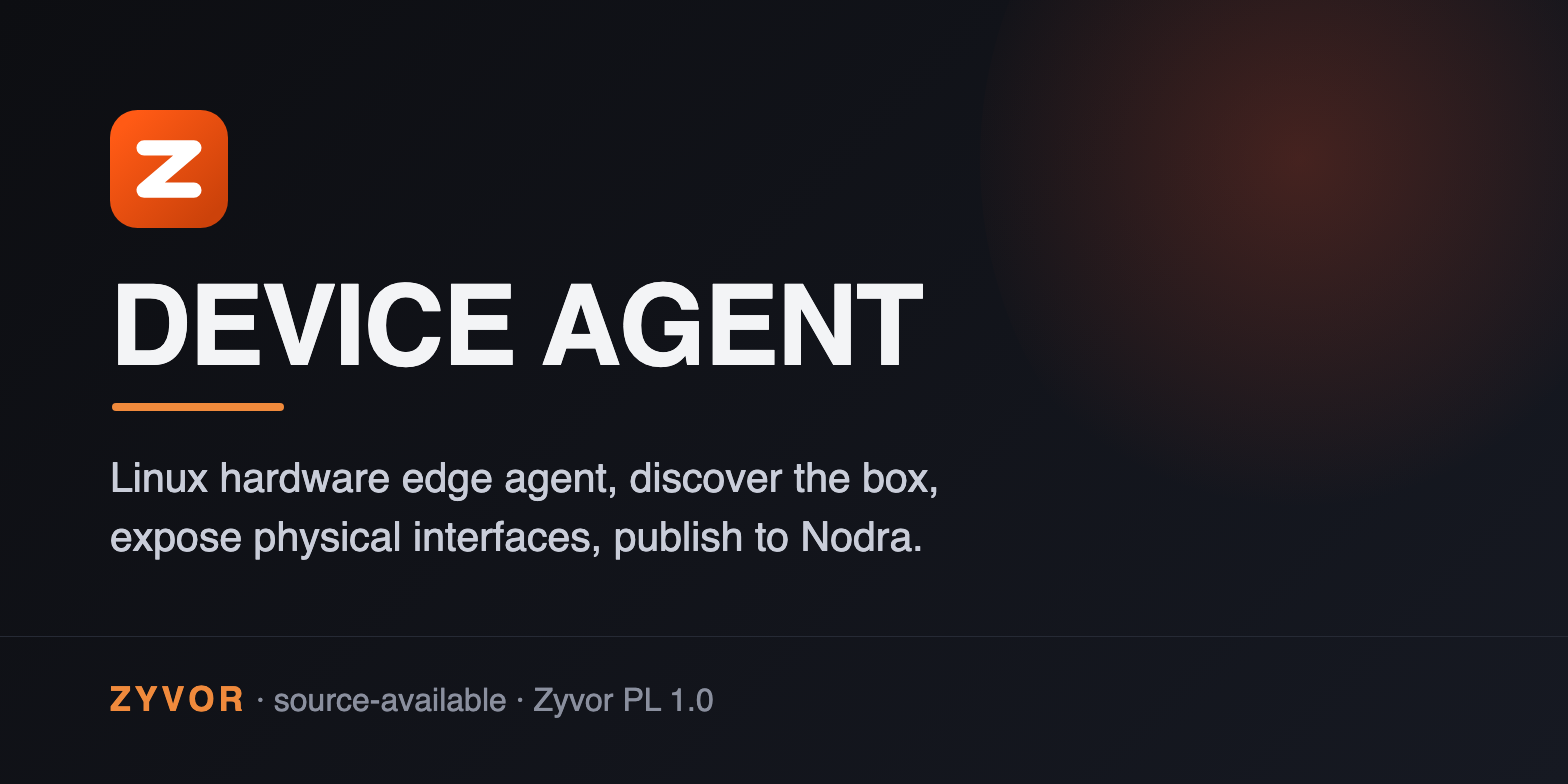
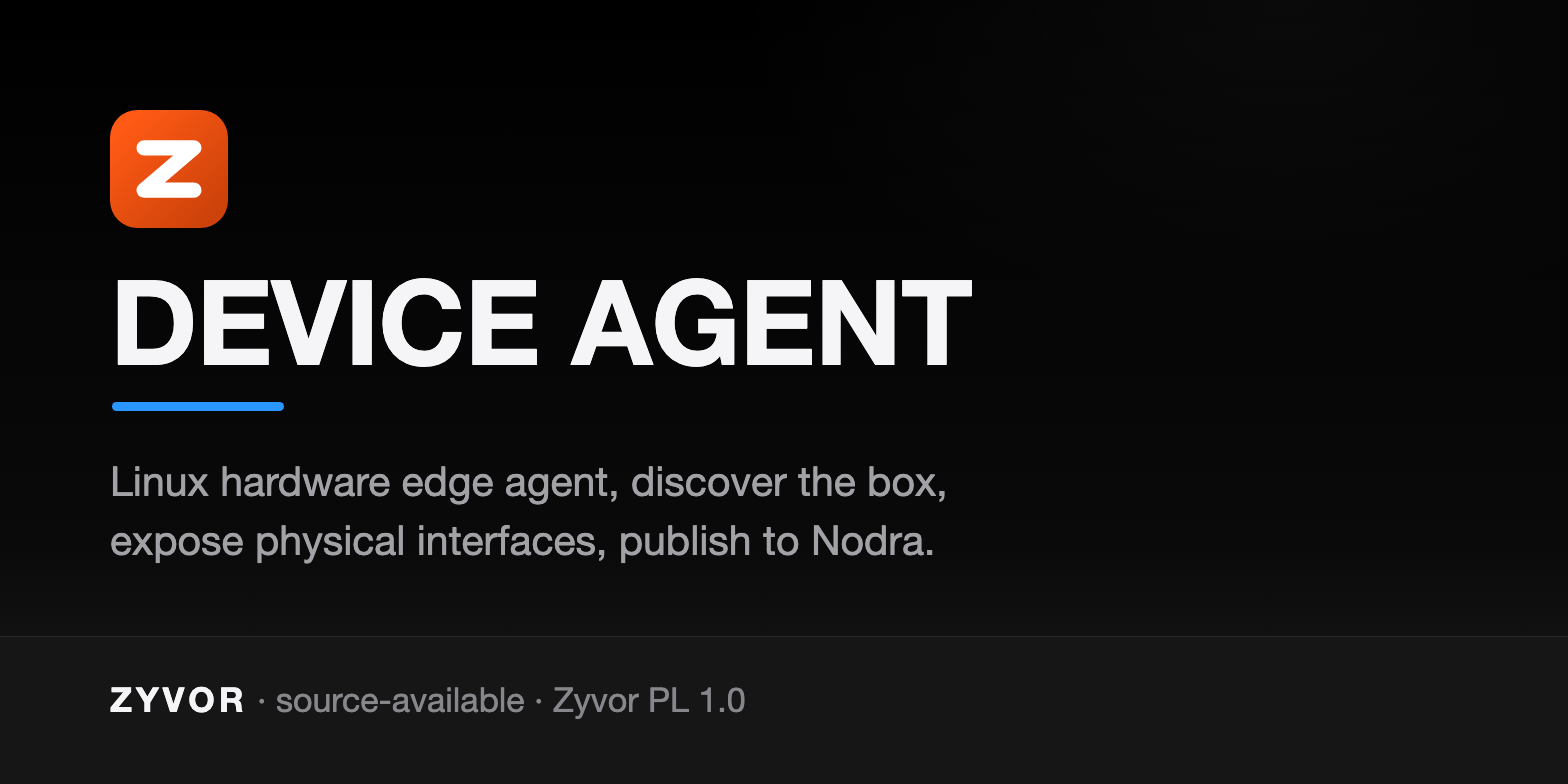
docs: remove community tier, apple-dark social cards

diff --git a/docs/social/device-agent-social-card.html b/docs/social/device-agent-social-card.html
@@ -8,12 +8,12 @@
   Build:  ./docs/social/build-social-card.sh   ->  device-agent-social-card.jpg
 -->
 <style>
-  :root { --ink:#0d0d0c; --soft:#5a544c; --signal:#ff5a15; --deep:#cc420a; --warm:#fbf7f2;
-    --blue:#2b5fd9; --green:#1f7a4d;
+  :root { --ink:#f5f5f7; --soft:#86868b; --signal:#2997ff; --btn:#0071e3; --deep:#2997ff; --warm:#000;
+    --blue:#5e5ce6; --green:#248a3d;
     --sans:'Helvetica Neue',Helvetica,Arial,sans-serif; --mono:'SF Mono',Menlo,Consolas,monospace; }
   * { box-sizing:border-box; }
   html,body { margin:0; padding:0; }
-  body { width:1600px; height:900px; overflow:hidden; background:var(--warm); color:var(--ink); font-family:var(--sans); position:relative; }
+  body { width:1600px; height:900px; overflow:hidden; background:radial-gradient(900px 520px at 78% 0%,rgba(255,255,255,.04),transparent 62%),#000; color:var(--ink); font-family:var(--sans); position:relative; }
   .bar { position:absolute; left:0; top:0; bottom:0; width:14px; background:var(--signal); }
   .wrap { position:absolute; left:72px; right:64px; top:48px; bottom:40px; display:flex; flex-direction:column; }
 
@@ -24,10 +24,10 @@
 
   h1 { margin:26px 0 0; font-size:64px; line-height:1.06; letter-spacing:-.025em; font-weight:700; max-width:1440px; }
   h1 em { font-style:normal; color:var(--signal); }
-  .sub { margin:16px 0 0; font-size:27px; line-height:1.36; color:#26231f; max-width:1320px; }
+  .sub { margin:16px 0 0; font-size:27px; line-height:1.36; color:#a1a1a6; max-width:1320px; }
 
   .flow { margin-top:34px; display:grid; grid-template-columns:repeat(5,1fr); gap:34px; }
-  .step { position:relative; background:#fff; border:2.5px solid var(--c); border-radius:16px; padding:18px 20px 18px 24px; min-height:222px; }
+  .step { position:relative; background:#1d1d1f; border:2.5px solid var(--c); border-radius:16px; padding:18px 20px 18px 24px; min-height:222px; }
   .step::before { content:""; position:absolute; left:0; top:0; bottom:0; width:9px; background:var(--c); border-radius:13px 0 0 13px; }
   .step:not(:last-child)::after { content:""; position:absolute; right:-31px; top:50%; width:0; height:0; margin-top:-11px;
     border-left:16px solid var(--soft); border-top:11px solid transparent; border-bottom:11px solid transparent; }
@@ -35,17 +35,17 @@
   .n { float:right; width:34px; height:34px; border-radius:50%; background:var(--c); color:#fff; font-weight:700; font-size:19px; line-height:34px; text-align:center; }
   .step h3 { margin:14px 0 8px; font-size:27px; line-height:1.14; letter-spacing:-.01em; }
   .step p { margin:0; font-size:20.5px; line-height:1.34; color:var(--soft); }
-  .k { --c:var(--signal); } .a { --c:var(--ink); } .c { --c:var(--blue); } .o { --c:var(--green); } .o2 { --c:var(--deep); }
+  .k { --c:var(--btn); } .a { --c:#86868b; } .c { --c:var(--blue); } .o { --c:var(--green); } .o2 { --c:var(--deep); }
 
-  .attr { margin-top:22px; display:flex; align-items:center; gap:16px; background:var(--ink); color:#f3ede4; border-radius:12px; padding:13px 22px; font-family:var(--mono); font-size:22px; white-space:nowrap; }
+  .attr { margin-top:22px; display:flex; align-items:center; gap:16px; background:#1d1d1f; border:1px solid rgba(255,255,255,.08); color:#f5f5f7; border-radius:12px; padding:13px 22px; font-family:var(--mono); font-size:22px; white-space:nowrap; }
   .attr .tag { color:var(--signal); font-weight:700; letter-spacing:.1em; font-size:16px; }
-  .attr .why { margin-left:auto; color:#a39a8d; font-size:15px; letter-spacing:.06em; text-transform:uppercase; }
+  .attr .why { margin-left:auto; color:#86868b; font-size:15px; letter-spacing:.06em; text-transform:uppercase; }
 
   .chips { margin-top:auto; padding-top:22px; display:flex; flex-wrap:wrap; gap:10px; }
-  .chip { font-size:20px; font-weight:700; padding:5px 14px; border-radius:20px; background:var(--signal); color:#fff; border:2px solid var(--signal); }
-  .chip.g { background:#fff; color:var(--deep); border:2px solid var(--signal); }
+  .chip { font-size:20px; font-weight:700; padding:5px 14px; border-radius:20px; background:var(--btn); color:#fff; border:2px solid var(--btn); }
+  .chip.g { background:#1d1d1f; color:var(--deep); border:2px solid var(--signal); }
 
-  .foot { margin-top:18px; padding-top:14px; border-top:3px solid var(--ink); display:flex; align-items:center; font-family:var(--mono); font-size:22px; color:var(--soft); }
+  .foot { margin-top:18px; padding-top:14px; border-top:1px solid rgba(255,255,255,.12); display:flex; align-items:center; font-family:var(--mono); font-size:22px; color:var(--soft); }
   .foot b { color:var(--ink); }
   .foot .r { margin-left:auto; }
 </style>

diff --git a/docs/social/device-agent-share-card.html b/docs/social/device-agent-share-card.html
@@ -8,11 +8,11 @@
   Build:  ./docs/social/build-social-card.sh
 -->
 <style>
-  :root { --ink:#0d0d0c; --soft:#5a544c; --signal:#ff5a15; --deep:#cc420a; --warm:#fbf7f2;
+  :root { --ink:#f5f5f7; --soft:#86868b; --signal:#2997ff; --btn:#0071e3; --deep:#2997ff; --warm:#000;
     --sans:'Helvetica Neue',Helvetica,Arial,sans-serif; --mono:'SF Mono',Menlo,Consolas,monospace; }
   * { box-sizing:border-box; }
   html,body { margin:0; padding:0; }
-  body { width:1200px; height:630px; overflow:hidden; background:var(--warm); color:var(--ink); font-family:var(--sans); position:relative; }
+  body { width:1200px; height:630px; overflow:hidden; background:radial-gradient(900px 520px at 78% 0%,rgba(255,255,255,.04),transparent 62%),#000; color:var(--ink); font-family:var(--sans); position:relative; }
   .bar { position:absolute; left:0; top:0; bottom:0; width:12px; background:var(--signal); }
   .wrap { position:absolute; left:56px; right:48px; top:40px; bottom:36px; display:flex; flex-direction:column; }
 
@@ -23,13 +23,13 @@
 
   h1 { margin:36px 0 0; font-size:52px; line-height:1.08; letter-spacing:-.025em; font-weight:700; max-width:1080px; }
   h1 em { font-style:normal; color:var(--signal); }
-  .sub { margin:18px 0 0; font-size:24px; line-height:1.4; color:#26231f; max-width:980px; }
+  .sub { margin:18px 0 0; font-size:24px; line-height:1.4; color:#a1a1a6; max-width:980px; }
 
   .chips { margin-top:auto; display:flex; flex-wrap:wrap; gap:10px; padding-bottom:18px; }
-  .chip { font-size:18px; font-weight:700; padding:6px 14px; border-radius:20px; background:var(--signal); color:#fff; border:2px solid var(--signal); }
-  .chip.g { background:#fff; color:var(--deep); border:2px solid var(--signal); }
+  .chip { font-size:18px; font-weight:700; padding:6px 14px; border-radius:20px; background:var(--btn); color:#fff; border:2px solid var(--btn); }
+  .chip.g { background:#1d1d1f; color:var(--deep); border:2px solid var(--signal); }
 
-  .foot { padding-top:14px; border-top:3px solid var(--ink); display:flex; align-items:center; font-family:var(--mono); font-size:20px; color:var(--soft); }
+  .foot { padding-top:14px; border-top:1px solid rgba(255,255,255,.12); display:flex; align-items:center; font-family:var(--mono); font-size:20px; color:var(--soft); }
   .foot b { color:var(--ink); }
   .foot .r { margin-left:auto; }
 </style>

diff --git a/docs/social/device-agent-preview.html b/docs/social/device-agent-preview.html
@@ -1,0 +1,21 @@
+<!doctype html>
+<html lang="en"><head><meta charset="utf-8"><title>DEVICE AGENT social preview</title>
+<style>
+* { box-sizing:border-box; }
+html,body { margin:0; padding:0; }
+body { width:1568px; height:784px; overflow:hidden; position:relative; color:#f5f5f7;
+  font-family:'Helvetica Neue',Helvetica,Arial,sans-serif;
+  background:radial-gradient(900px 520px at 82% 0%,rgba(255,255,255,.04),transparent 62%),linear-gradient(180deg,#000 0%,#0a0a0b 70%,#1d1d1f 100%); }
+.mark { position:absolute; left:110px; top:110px; width:118px; height:118px; }
+h1 { position:absolute; left:110px; top:262px; margin:0; font-size:118px; line-height:1; font-weight:700; letter-spacing:-.01em; }
+.rule { position:absolute; left:112px; top:402px; width:172px; height:9px; border-radius:5px; background:#2997ff; }
+p { position:absolute; left:110px; top:452px; margin:0; font-size:41px; line-height:59px; color:#a1a1a6; }
+.foot { position:absolute; left:0; right:0; bottom:0; height:148px; border-top:1px solid rgba(255,255,255,.08); background:#161617; }
+.foot div { position:absolute; left:110px; top:42px; font-size:34px; color:#86868b; }
+.foot b { color:#f5f5f7; letter-spacing:.12em; font-size:34px; }
+</style></head><body>
+<svg class="mark" viewBox="0 0 64 64" aria-hidden="true"><defs><linearGradient id="zb" x1="8" y1="8" x2="56" y2="56" gradientUnits="userSpaceOnUse"><stop offset="0" stop-color="#ff5a15"/><stop offset="1" stop-color="#cc420a"/></linearGradient></defs><rect width="64" height="64" rx="15" fill="url(#zb)"/><path d="M18.5,20.5 45.5,20.5 18.5,43.5 45.5,43.5" fill="none" stroke="#fff" stroke-width="8.3" stroke-linecap="round" stroke-linejoin="round"/></svg>
+<h1>DEVICE AGENT</h1><div class="rule"></div>
+<p>Linux hardware edge agent, discover the box,<br>expose physical interfaces, publish to Nodra.</p>
+<div class="foot"><div><b>ZYVOR</b> &middot; source-available &middot; Zyvor PL 1.0</div></div>
+</body></html>

diff --git a/docs/SUBSCRIPTION-MODEL.md b/docs/SUBSCRIPTION-MODEL.md
@@ -1,12 +1,11 @@
 # Zyvor Device Agent: support subscriptions
 
-Zyvor Device Agent is source-available software. Non-production use is free under the Zyvor Production License v1.0; production use requires a commercial license (sales@zyvor.dev).
+Zyvor Device Agent is source-available software. A commercial license is required to run it (sales@zyvor.dev); a 30-day trial key is how to evaluate.
 
 Teams that want supported releases and defined response targets can buy an annual **support subscription** from Zyvor.
 
 | Plan | What you get | Coverage |
 |------|--------------|----------|
-| Community | The software, community documentation and public issue tracking | No contracted response target |
 | Standard | Deployment and upgrade guidance, defined supported configuration | Business hours |
 | Supported | Standard plus priority queue and incident triage | Business hours, faster response |
 | Enterprise | Supported plus a named technical contact and 24x7 critical intake | One-hour initial response target for critical issues |
@@ -26,7 +25,7 @@ Prices are in the [Pricing](#pricing) section below; custom pricing: contact [sa
 
 ## Pricing
 
-The support subscription is priced per device per year, on one ladder shared by Fleet, Relay, Device Agent, OTA and Nodra, with an annual minimum of USD 5,000 (INR 495,600 incl. GST in India) that applies to every step. Non-production use of the software is free under the Zyvor Production License v1.0; production use requires a commercial license.
+The support subscription is priced per device per year, on one ladder shared by Fleet, Relay, Device Agent, OTA and Nodra, with an annual minimum of USD 5,000 (INR 495,600 incl. GST in India) that applies to every step. A commercial license is required to run the software.
 
 | Devices | Elsewhere (USD, excl. tax) | India (INR, incl. 18% GST) |
 |---|---|---|

diff --git a/docs/FAQ.md b/docs/FAQ.md
@@ -10,9 +10,8 @@ decided to adopt it. If you're already building with it, the
 
 ## Licensing & cost
 
-**Is it really free?** For non-production use, yes. The daemon, dashboard, and everything in this
-repository are under the Zyvor Production License v1.0: free for evaluation,
-development, testing, research and education; production use requires a
+**Do I need a license?** Yes. The daemon, dashboard, and everything in this
+repository are under the Zyvor Production License v1.0; running it requires a
 commercial license from Zyvor AI Labs (sales@zyvor.dev, https://zyvor.dev/buy).
 Notices must be preserved
 (see [`NOTICE`](https://github.com/zyvorai/device-agent/blob/main/NOTICE)). See the README's [License](https://github.com/zyvorai/device-agent#license)
@@ -23,7 +22,7 @@ Zyvor's other commercial products are licensed separately from this
 source-available agent. Prices (per device per year, India in INR incl. GST)
 are in [SUBSCRIPTION-MODEL.md](SUBSCRIPTION-MODEL.md#pricing); buy at
 https://zyvor.dev/buy or contact sales@zyvor.dev if you need
-that; nothing in this repository requires it.
+that.
 
 ## Support
 
@@ -34,7 +33,7 @@ see [`SECURITY.md`](https://github.com/zyvorai/device-agent/blob/main/SECURITY.m
 the current v0.1 security boundary list.
 
 **Is there a support SLA?** Not for the source-available project itself —
-community support is via GitHub issues. Contact sales@zyvor.dev for
+issues are tracked on GitHub. Contact sales@zyvor.dev for
 commercial support arrangements.
 
 ## Production readiness

diff --git a/README.md b/README.md
@@ -575,7 +575,7 @@ Production and qualification detail: [PRODUCTION.md](docs/PRODUCTION.md) · [HIL
 
 ## Support
 
-Non-production use is free under the Zyvor Production License v1.0; production use requires a commercial license (sales@zyvor.dev). If it helps you, you can donate any amount you like: <https://rzp.io/rzp/utwdYh3>. A donation is voluntary and supports development and maintenance. It is not a purchase: it buys no support, SLA, features, priority or license, and it is not tax-deductible (Zyvor AI Labs Private Limited is a company, not a charity). Support contracts are separate: [sales@zyvor.dev](mailto:sales@zyvor.dev).
+A commercial license is required to run it (sales@zyvor.dev); a 30-day trial key is how to evaluate. If it helps you, you can donate any amount you like: <https://rzp.io/rzp/utwdYh3>. A donation is voluntary and supports development and maintenance. It is not a purchase: it buys no support, SLA, features, priority or license, and it is not tax-deductible (Zyvor AI Labs Private Limited is a company, not a charity). Support contracts are separate: [sales@zyvor.dev](mailto:sales@zyvor.dev).
 
 ## License
 
